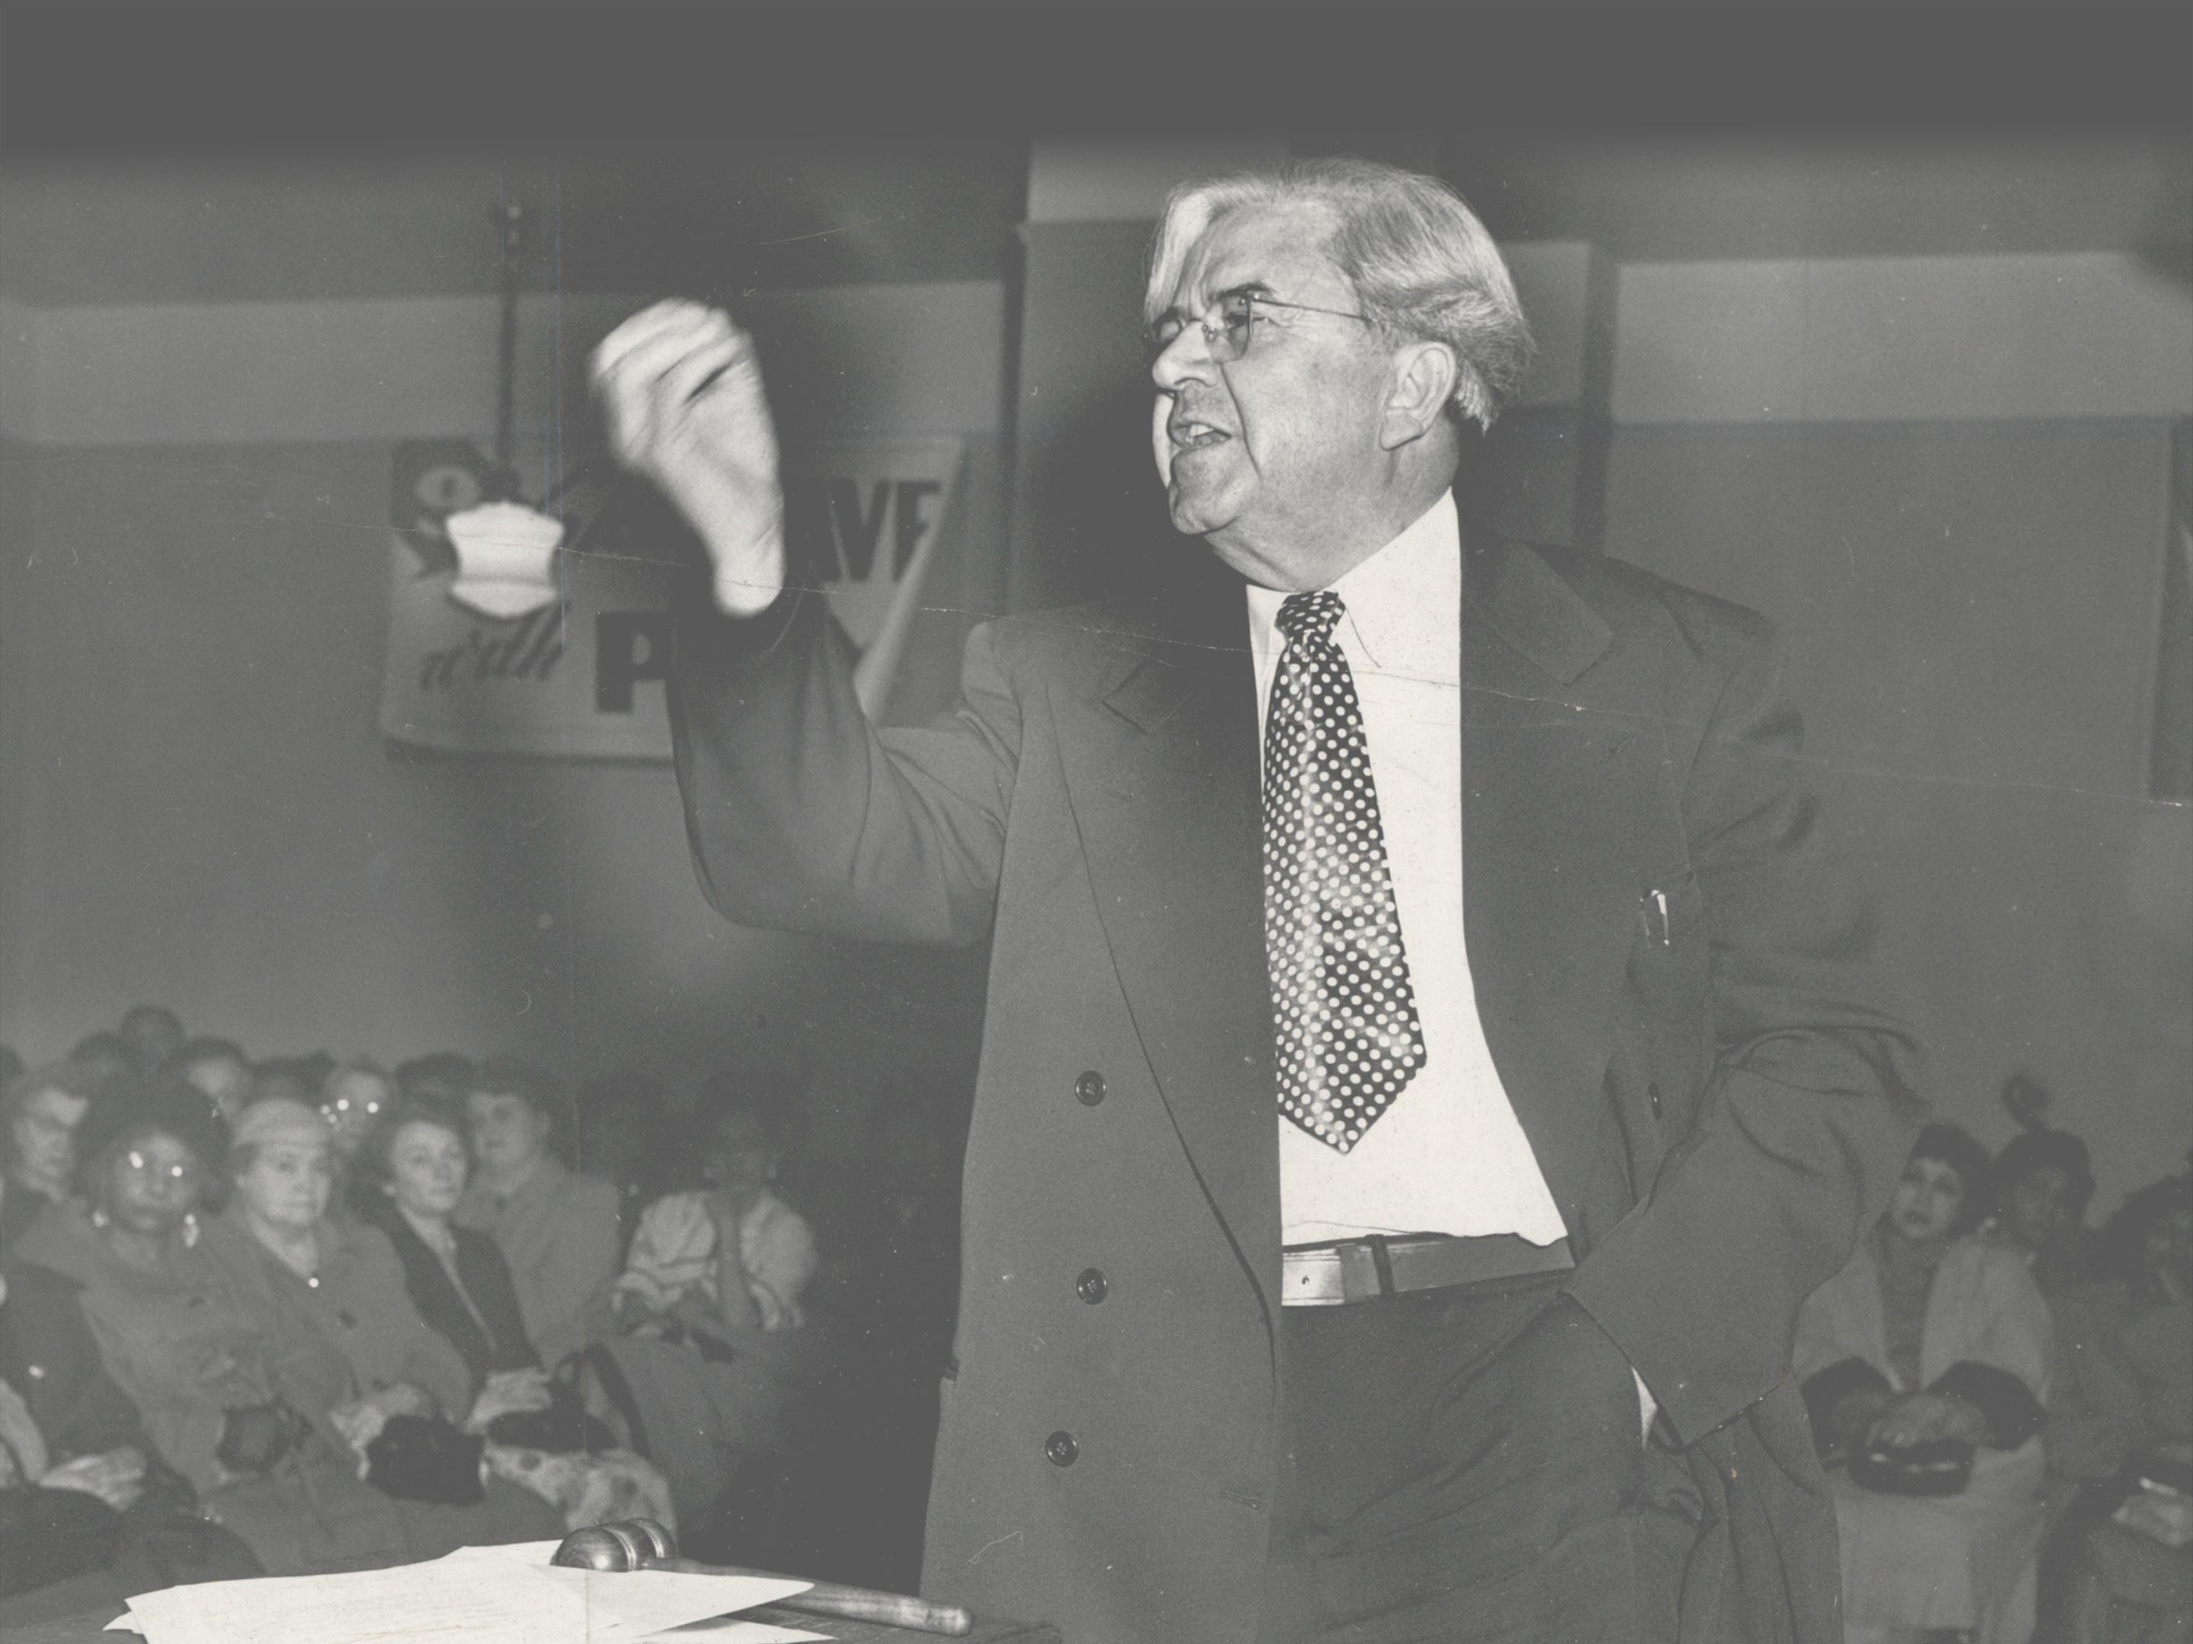
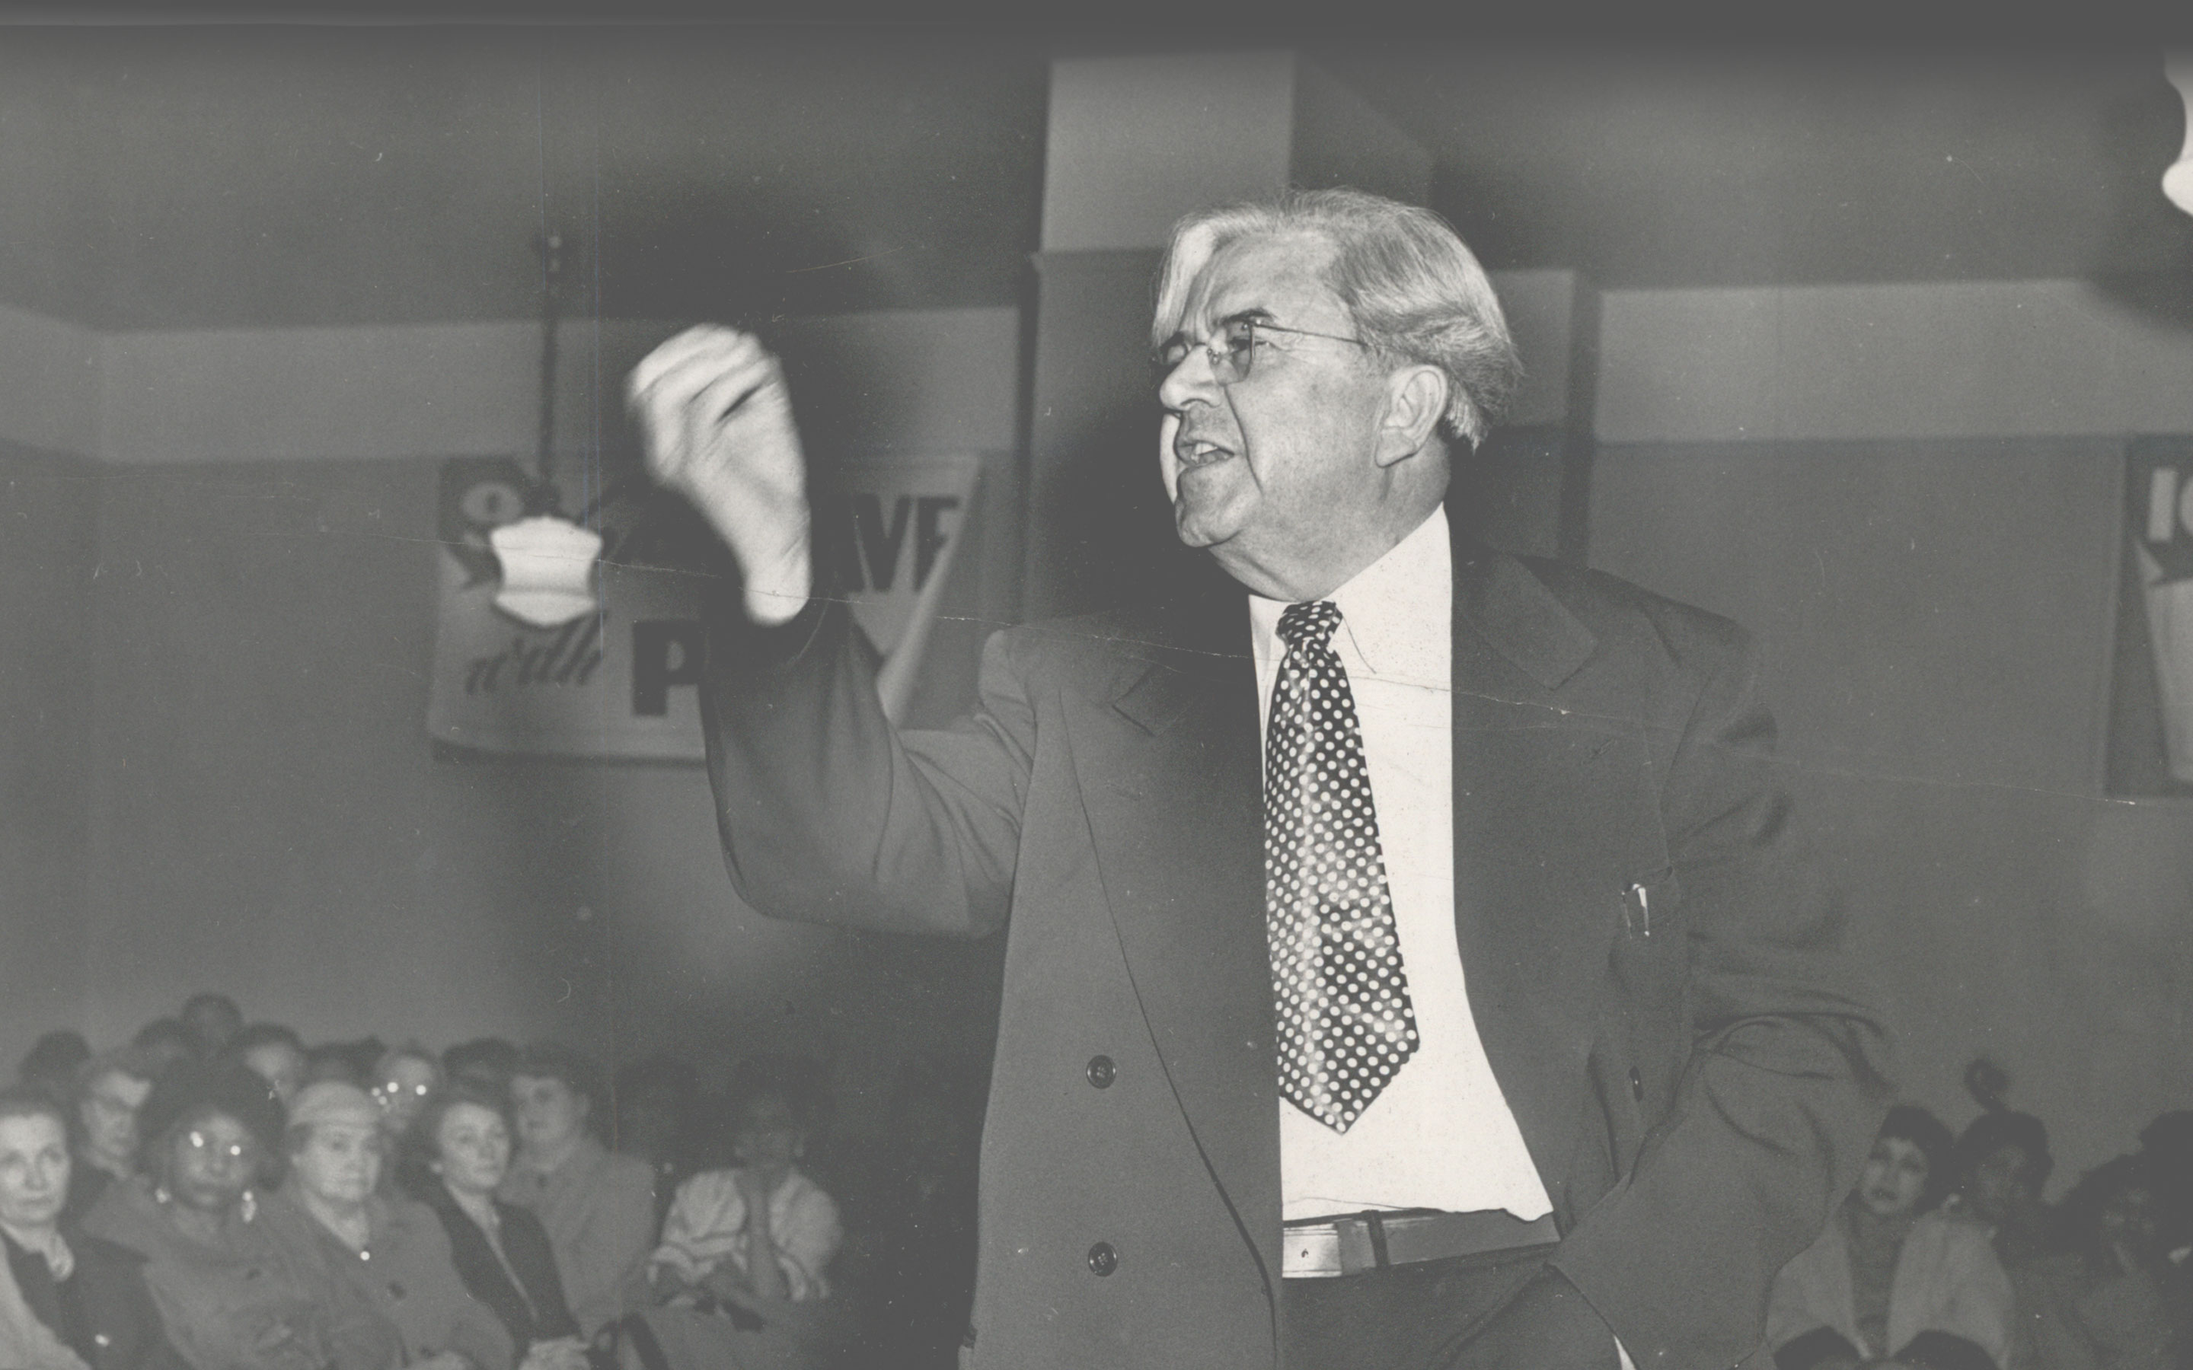
media updates
@media queries updated. Hero image altered for wider screeen application

diff --git a/css/style.css b/css/style.css
@@ -703,7 +703,7 @@ p {
     }
 /*Smaller Media*/
 
-@media only screen and (max-width: 1366px) {
+@media (pointer:coarse) {
   .hero-section {
     background-image: url(../img/hero/background_1366.jpg);
     background-attachment: local;
@@ -718,7 +718,8 @@ p {
   .volume-container { background-attachment:local; }
   .author-section { background-attachment:local; }
 }
-@media only screen and (max-width: 1024px) {
+
+@media only screen and (max-width: 768px), screen and (max-width: 1024px) and (orientation: portrait) {
   p {
     font-size: calc(12px + 1.14vw);
     line-height: calc(24px + 1.7vw);
@@ -818,7 +819,6 @@ p {
     height: auto;
     display: block;
     background-image: url(../img/intro/background_mobile.jpg);
-
   }
 
   .intro-container-img {
@@ -835,8 +835,6 @@ p {
     max-width: 100%;
     height: auto;
     padding: 2em;
-
-
 
   }
   .intro-content-text .leader {
@@ -911,7 +909,7 @@ p {
   }
 }
 
-@media only screen and (max-width: 1024px) and (orientation: landscape) {
+@media only screen and (max-width: 768px) and (orientation: landscape) {
   .hero-img-mobile-container {
     display: none;
   }
